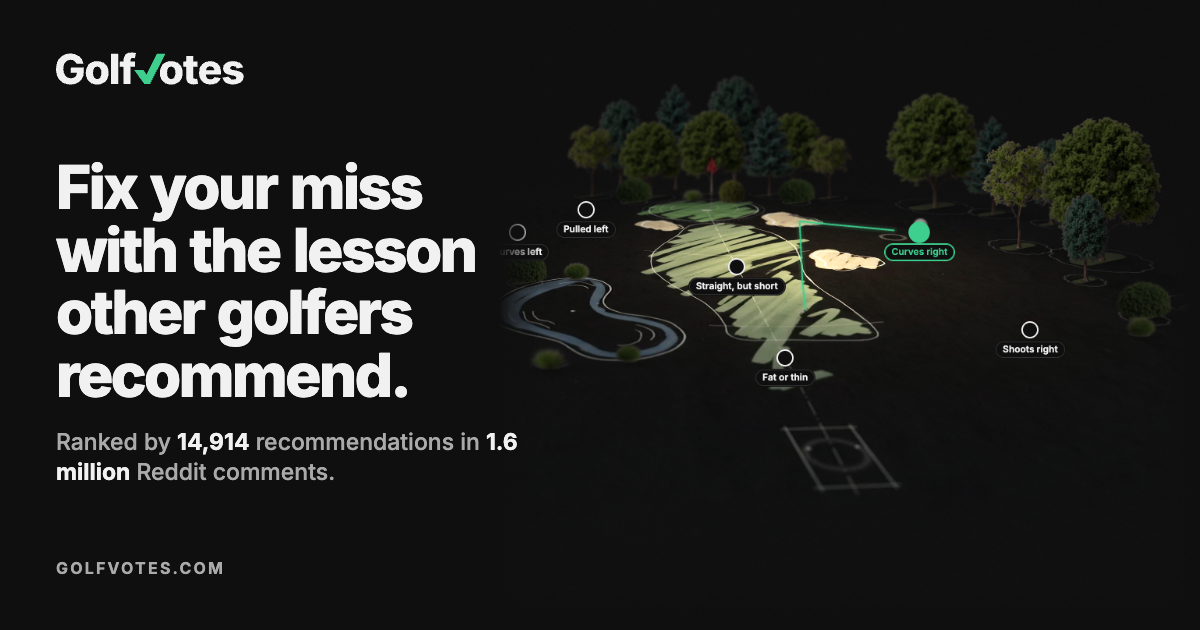
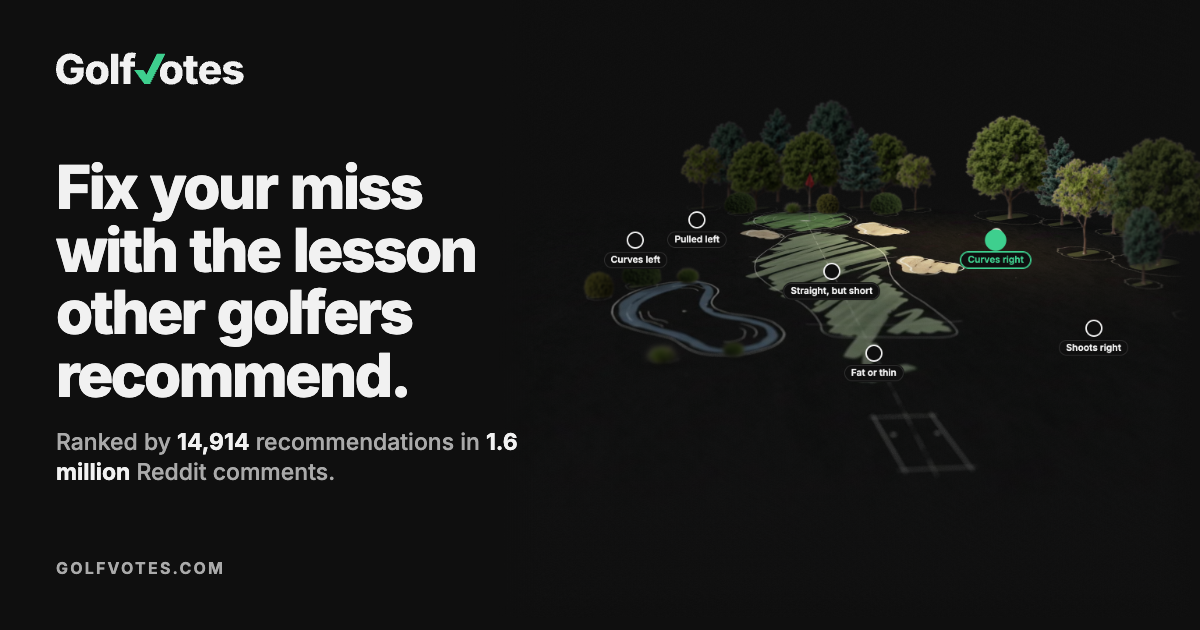
Home card: drawn on every site change, compared by its picture; the picture is taken once the stage has stopped moving
The workflow now runs for any change under static/, build/ or data/ instead of a list of files, so a page change cannot leave the card behind. og.js waits until two shots of the stage are equal, so runs on slow software GL end at the same picture and unchanged pages commit nothing.

diff --git a/build/og.js b/build/og.js
@@ -5,8 +5,7 @@
 // when the design changes, because networks cache preview images by URL.
 // Only images whose content changed are drawn again (build/og-hashes.json remembers what each one was drawn from), so a
 // data update commits the few images whose numbers moved, not all fifty. `node build/og.js --all` draws everything.
-// The home page's card is the exception: it is compared by its picture, and while the picture stays the same its recorded
-// hash stays the old one (so that hash can name an earlier stylesheet than the current one).
+// The home page's card is the exception: it is drawn on every run and compared by its picture (see below).
 const { chromium } = require('playwright');
 const fs = require('fs'); const path = require('path'); const crypto = require('crypto');
 const root = path.join(__dirname, '..');
@@ -77,10 +76,6 @@ ${kicker ? `<div class="k">${esc(kicker)}</div>` : '<div class="k" style="visibi
 // (python3 build/build.py) and the stage's files; the share-images workflow runs again when any of them changes.
 // OG_CHANNEL=chrome draws it with an installed Chrome instead of Playwright's Chromium (for a machine without the latter).
 const SITE = path.join(root, '_site');
-const STAGE_KEY = () => crypto.createHash('sha1').update([
-  path.join(root, 'build/build.py'), path.join(root, 'build/course.svg'), path.join(root, 'static/style.css'), path.join(root, 'static/app.js'), path.join(root, 'static/stage.js'),
-  ...fs.readdirSync(path.join(root, 'static/stage')).sort().map(f => path.join(root, 'static/stage', f))
-].map(f => fs.readFileSync(f)).reduce((a, x) => Buffer.concat([a, x]), Buffer.alloc(0))).digest('hex');
 const MIME = { '.html': 'text/html', '.js': 'application/javascript', '.css': 'text/css', '.webp': 'image/webp', '.png': 'image/png', '.svg': 'image/svg+xml', '.woff2': 'font/woff2', '.json': 'application/json', '.jpg': 'image/jpeg' };
 const serveSite = () => new Promise(res => {
   const srv = require('http').createServer((q, r) => {
@@ -106,10 +101,19 @@ const stageShot = async (b, base) => {
     await pg.waitForTimeout(1500);
     await pg.click(`.bfd[data-k="${FLIGHT_K}"]`);
     await pg.waitForFunction(() => document.querySelector('.welcome').classList.contains('ans'), null, { timeout: 20000 });
-    await pg.waitForTimeout(5000);  // the camera eases back after the landing
     await pg.addStyleTag({ content: '#top,.fh,.bfr>.bfp,.bfq,.bfis,.bfh,.pickb,.bfr>.bf0{visibility:hidden!important}' });
-    await pg.waitForTimeout(600);
-    return await pg.screenshot({ clip: { x: 850, y: 80, width: 900, height: 808 } });
+    // The camera and the light ease back after the landing, a step per frame, so on a slow software GL the end comes late and
+    // at a different time on every machine: take the picture once two shots in a row are the same (the stage has stopped
+    // drawing), so every run ends at the same picture.
+    const clip = { x: 850, y: 80, width: 900, height: 808 };
+    let prev = null;
+    for (let i = 0; i < 60; i++) {
+      await pg.waitForTimeout(800);
+      const cur = await pg.screenshot({ clip });
+      if (prev && cur.equals(prev)) return cur;
+      prev = cur;
+    }
+    return prev;
   } finally { await c.close(); }
 };
 const stage = (title, sub, png) =>   // title and sub are put in as HTML: pass only text that is escaped or written here
@@ -163,9 +167,11 @@ html,body{margin:0;width:1200px;height:630px;overflow:hidden;background:#0f0f0f;
     return s / (d1.length / 4 * 3) < 0.4;
   }, [a.toString('base64'), c.toString('base64')]);
   {
-    const key = crypto.createHash('sha1').update(STAGE_KEY()).update(String(totalRecs) + site.stats.comments_scanned).digest('hex'), file = path.join(out, 'home.png');
-    hashes.home = key;
-    if (!(old.home === key && fs.existsSync(file))) {
+    // Drawn on every run: whatever on the page changes the picture (a font, a model, the CSS, the data) is found by comparing
+    // the picture, not by a list of files that could be forgotten. The recorded value is only a marker.
+    const file = path.join(out, 'home.png');
+    hashes.home = 'by-picture';
+    {
       const srv = await serveSite();
       try {
         const pic = await stageShot(b, `http://127.0.0.1:${srv.address().port}/`);
@@ -173,10 +179,9 @@ html,body{margin:0;width:1200px;height:630px;overflow:hidden;background:#0f0f0f;
           `Ranked by <b>${n(totalRecs)}</b> recommendations in <b>${esc(site.stats.comments_scanned)}</b> Reddit comments.`, pic), { waitUntil: 'load' });
         await p.evaluate(() => document.fonts.ready);
         const png = await p.screenshot();
-        if (old.home && fs.existsSync(file) && await sameLook(fs.readFileSync(file), png)) hashes.home = old.home;
-        else { fs.writeFileSync(file, png); drawn++; }
+        if (!(fs.existsSync(file) && await sameLook(fs.readFileSync(file), png))) { fs.writeFileSync(file, png); drawn++; }
       } catch (e) {  // the stage did not run (no WebGL 2, a timeout): the other cards must still be drawn; the home card stays as it is
-        console.error('WARNING: the home card was not redrawn: ' + e.message); if (old.home) hashes.home = old.home; else delete hashes.home;
+        console.error('WARNING: the home card was not redrawn: ' + e.message);
       } finally { srv.close(); }
     }
   }

diff --git a/CLAUDE.md b/CLAUDE.md
@@ -122,12 +122,12 @@ The data files above are produced by the monthly pipeline run in a separate priv
   `YOUTUBE_API_KEY`; commits `data/videos.json` and `static/thumbs`, then triggers `pages.yml` itself
   (a push by Actions does not start it).
 - `index-report.yml`: Mondays and Thursdays, secret `GSC_SERVICE_ACCOUNT`; commits `seo/`.
-- `share-images.yml`: on push to `main` touching `data/**`, `build/og.js`, `build/build.py`, `build/course.svg`,
-  `static/style.css`, `static/app.js`, `static/stage.js`, `static/stage/**`, `static/logo-word.svg` or itself; builds the
-  site, runs `node build/og.js` and commits only changed images to `static/og4/` and `build/og-hashes.json`, then
+- `share-images.yml`: on push to `main` touching `data/**`, `build/**`, `static/**` (not `static/og4/**`) or itself; builds
+  the site, runs `node build/og.js` and commits only changed images to `static/og4/` and `build/og-hashes.json`, then
   triggers `pages.yml`. The home page's card (`home.png`, also the fallback for pages without their own card) is a
   picture of the real home page: `og.js` loads the built `_site/` in a browser (software WebGL 2), flies a ball to one
-  miss and sets the stage's picture beside the headline, so the card follows the page's stage (hence the paths above).
+  miss and sets the stage's picture beside the headline. It is drawn on every run and compared by its picture, not by a
+  list of files, so any page change that alters the stage shows up in the card without anyone remembering it.
   Software GL differs by a few pixels between runs, so the new card replaces the file only if it differs visibly
   (mean difference per channel over 0.4/255): a change that leaves the card alike causes no bot commit or deploy.
   Locally `og.js` needs a built `_site/`; `OG_CHANNEL=chrome node build/og.js` uses an installed Chrome.
